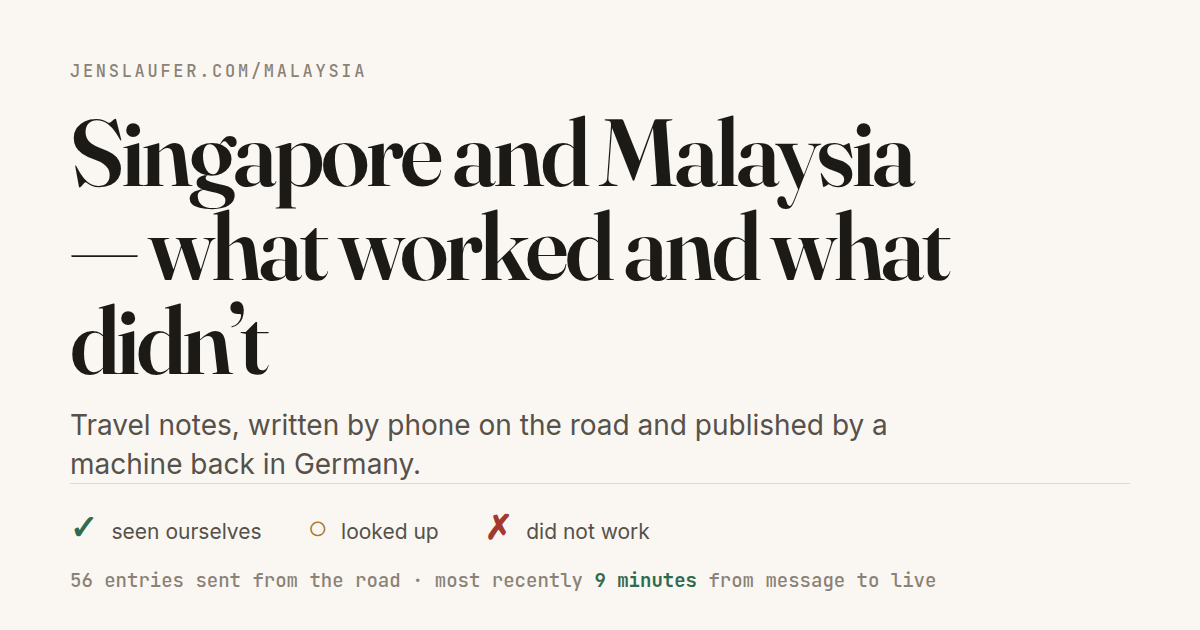
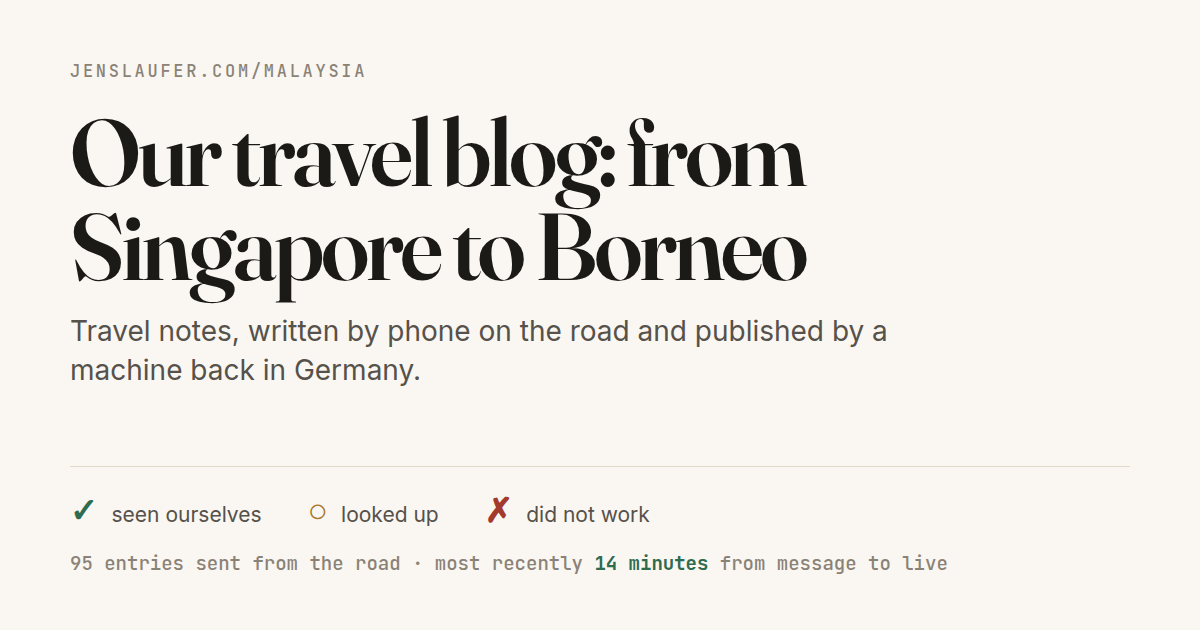
Titel: 'Unser Reiseblog: von Singapur bis Borneo' (Jens 05:58)
Zweite Anfrage nach dem 22.08. ('Wir brauchen eine bessere Headline').
Damals blieb die Form gleich - 'was funktioniert hat und was nicht' liest
sich wie ein Projektbericht, nicht wie eine Reise. Neu: Jens' eigenes Wort
fuer die Sache (Reiseblog), und Borneo steht drin - der Teil der Reise, den
'Malaysia' nicht transportiert.

Geaendert an EINER Stelle (H1 im Quelldokument), alle zehn Flaechen folgen:
title, og:title, h1, Feed und Vorschaukarte, je Sprache. 236 Tests gruen.

diff --git a/index.html b/index.html
@@ -3,13 +3,13 @@
 <head>
 <meta charset="utf-8">
 <meta name="viewport" content="width=device-width, initial-scale=1">
-<title>Singapur und Malaysia — was funktioniert hat und was nicht</title>
+<title>Unser Reiseblog: von Singapur bis Borneo</title>
 <meta name="description" content="Reisenotizen aus Singapur und Malaysia, August 2026. Jeder Punkt sagt dazu, ob wir es selbst erlebt oder nur nachgeschlagen haben.">
 <meta name="robots" content="index, follow">
 <meta property="og:type" content="article">
 <meta property="og:locale" content="de_DE">
 <meta property="og:locale:alternate" content="en_GB">
-<meta property="og:title" content="Singapur und Malaysia — was funktioniert hat und was nicht">
+<meta property="og:title" content="Unser Reiseblog: von Singapur bis Borneo">
 <meta property="og:description" content="Reisenotizen mit einem Zeichen an jedem Punkt: selbst erlebt, nachgeschlagen oder gescheitert. Unterwegs per Telegram geschrieben, von einer Maschine in Deutschland veröffentlicht.">
 <meta property="og:url" content="https://jenslaufer.com/malaysia/">
 <meta property="og:image" content="https://jenslaufer.com/malaysia/og.png">
@@ -780,7 +780,7 @@ a { color: var(--erlebt); }
 
 <header class="kopf">
   <p class="kicker">Reisenotizen · August und September 2026</p>
-  <h1>Singapur und Malaysia — was funktioniert hat und was nicht</h1>
+  <h1>Unser Reiseblog: von Singapur bis Borneo</h1>
 <p>Am Montag kurz nach zwölf standen wir zu viert auf der malaysischen Seite der Grenze,
 mit dem Gepäck für drei Wochen, und suchten den Weg zur Busstation Larkin. Fünf Kilometer,
 mit Koffern, in einem Land, dessen Bargeld wir uns erst dort besorgen wollten. Geraten wird

diff --git a/en/index.html b/en/index.html
@@ -3,13 +3,13 @@
 <head>
 <meta charset="utf-8">
 <meta name="viewport" content="width=device-width, initial-scale=1">
-<title>Singapore and Malaysia — what worked and what didn’t</title>
+<title>Our travel blog: from Singapore to Borneo</title>
 <meta name="description" content="Travel notes from Singapore and Malaysia, August 2026. Every point says whether we lived through it ourselves or only looked it up.">
 <meta name="robots" content="index, follow">
 <meta property="og:type" content="article">
 <meta property="og:locale" content="en_GB">
 <meta property="og:locale:alternate" content="de_DE">
-<meta property="og:title" content="Singapore and Malaysia — what worked and what didn’t">
+<meta property="og:title" content="Our travel blog: from Singapore to Borneo">
 <meta property="og:description" content="Travel notes with a mark on every point: lived through, looked up, or failed. Written on the road by Telegram, published by a machine in Germany.">
 <meta property="og:url" content="https://jenslaufer.com/malaysia/en/">
 <meta property="og:image" content="https://jenslaufer.com/malaysia/en/og.png">
@@ -779,7 +779,7 @@ a { color: var(--erlebt); }
 
 <header class="kopf">
   <p class="kicker">Travel notes · August and September 2026</p>
-  <h1>Singapore and Malaysia — what worked and what didn’t</h1>
+  <h1>Our travel blog: from Singapore to Borneo</h1>
 <p>On Monday, just after noon, the four of us stood on the Malaysian side of the border with
 three weeks of luggage, looking for the way to Larkin bus station. Five kilometres, with
 suitcases, in a country whose cash we were planning to get once we were inside it. What

diff --git a/content/erfahrungen.md b/content/erfahrungen.md
@@ -1,4 +1,4 @@
-# Singapur und Malaysia — was funktioniert hat und was nicht
+# Unser Reiseblog: von Singapur bis Borneo
 
 Am Montag kurz nach zwölf standen wir zu viert auf der malaysischen Seite der Grenze,
 mit dem Gepäck für drei Wochen, und suchten den Weg zur Busstation Larkin. Fünf Kilometer,

diff --git a/content/erfahrungen.en.md b/content/erfahrungen.en.md
@@ -1,4 +1,4 @@
-# Singapore and Malaysia — what worked and what didn’t
+# Our travel blog: from Singapore to Borneo
 
 On Monday, just after noon, the four of us stood on the Malaysian side of the border with
 three weeks of luggage, looking for the way to Larkin bus station. Five kilometres, with
